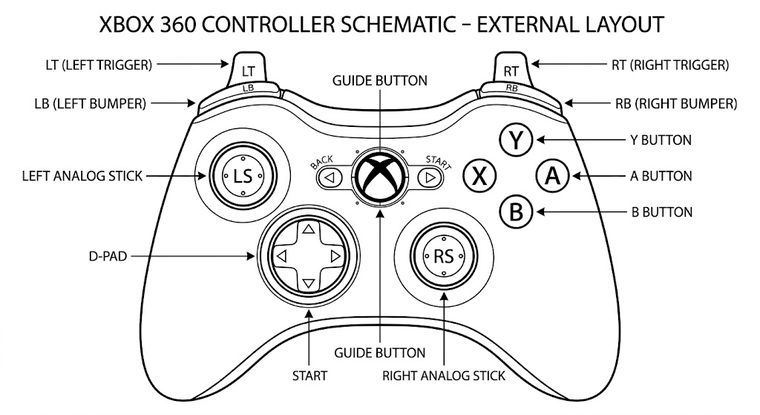
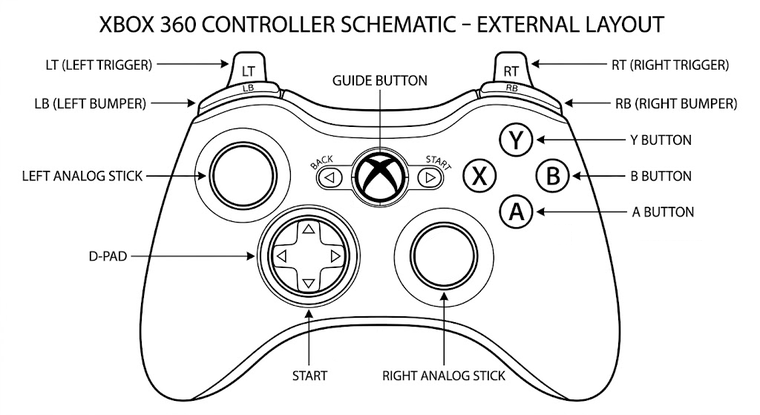
Fix A/B button positions in the debug schematic
The schematic image had A and B swapped from the real Xbox 360 layout
(B belongs top-right next to X, A belongs bottom). The image asset is
now corrected, and the overlay highlight geometry for A/B in
controller_view.py is swapped to match.

diff --git a/controller_view.py b/controller_view.py
@@ -43,8 +43,8 @@ _NATIVE_GEOMETRY = {
     "RIGHT_SHOULDER": ("rect", 634, 108, 766, 142),
     "Y": ("oval", 677, 167, 715, 205),
     "X": ("oval", 625, 212, 669, 256),
-    "A": ("oval", 725, 212, 769, 256),
-    "B": ("oval", 677, 260, 717, 300),
+    "B": ("oval", 725, 212, 769, 256),
+    "A": ("oval", 677, 260, 717, 300),
     "GUIDE": ("oval", 469, 188, 557, 276),
     "BACK": ("oval", 430, 223, 460, 253),
     "START": ("oval", 566, 223, 596, 253),
